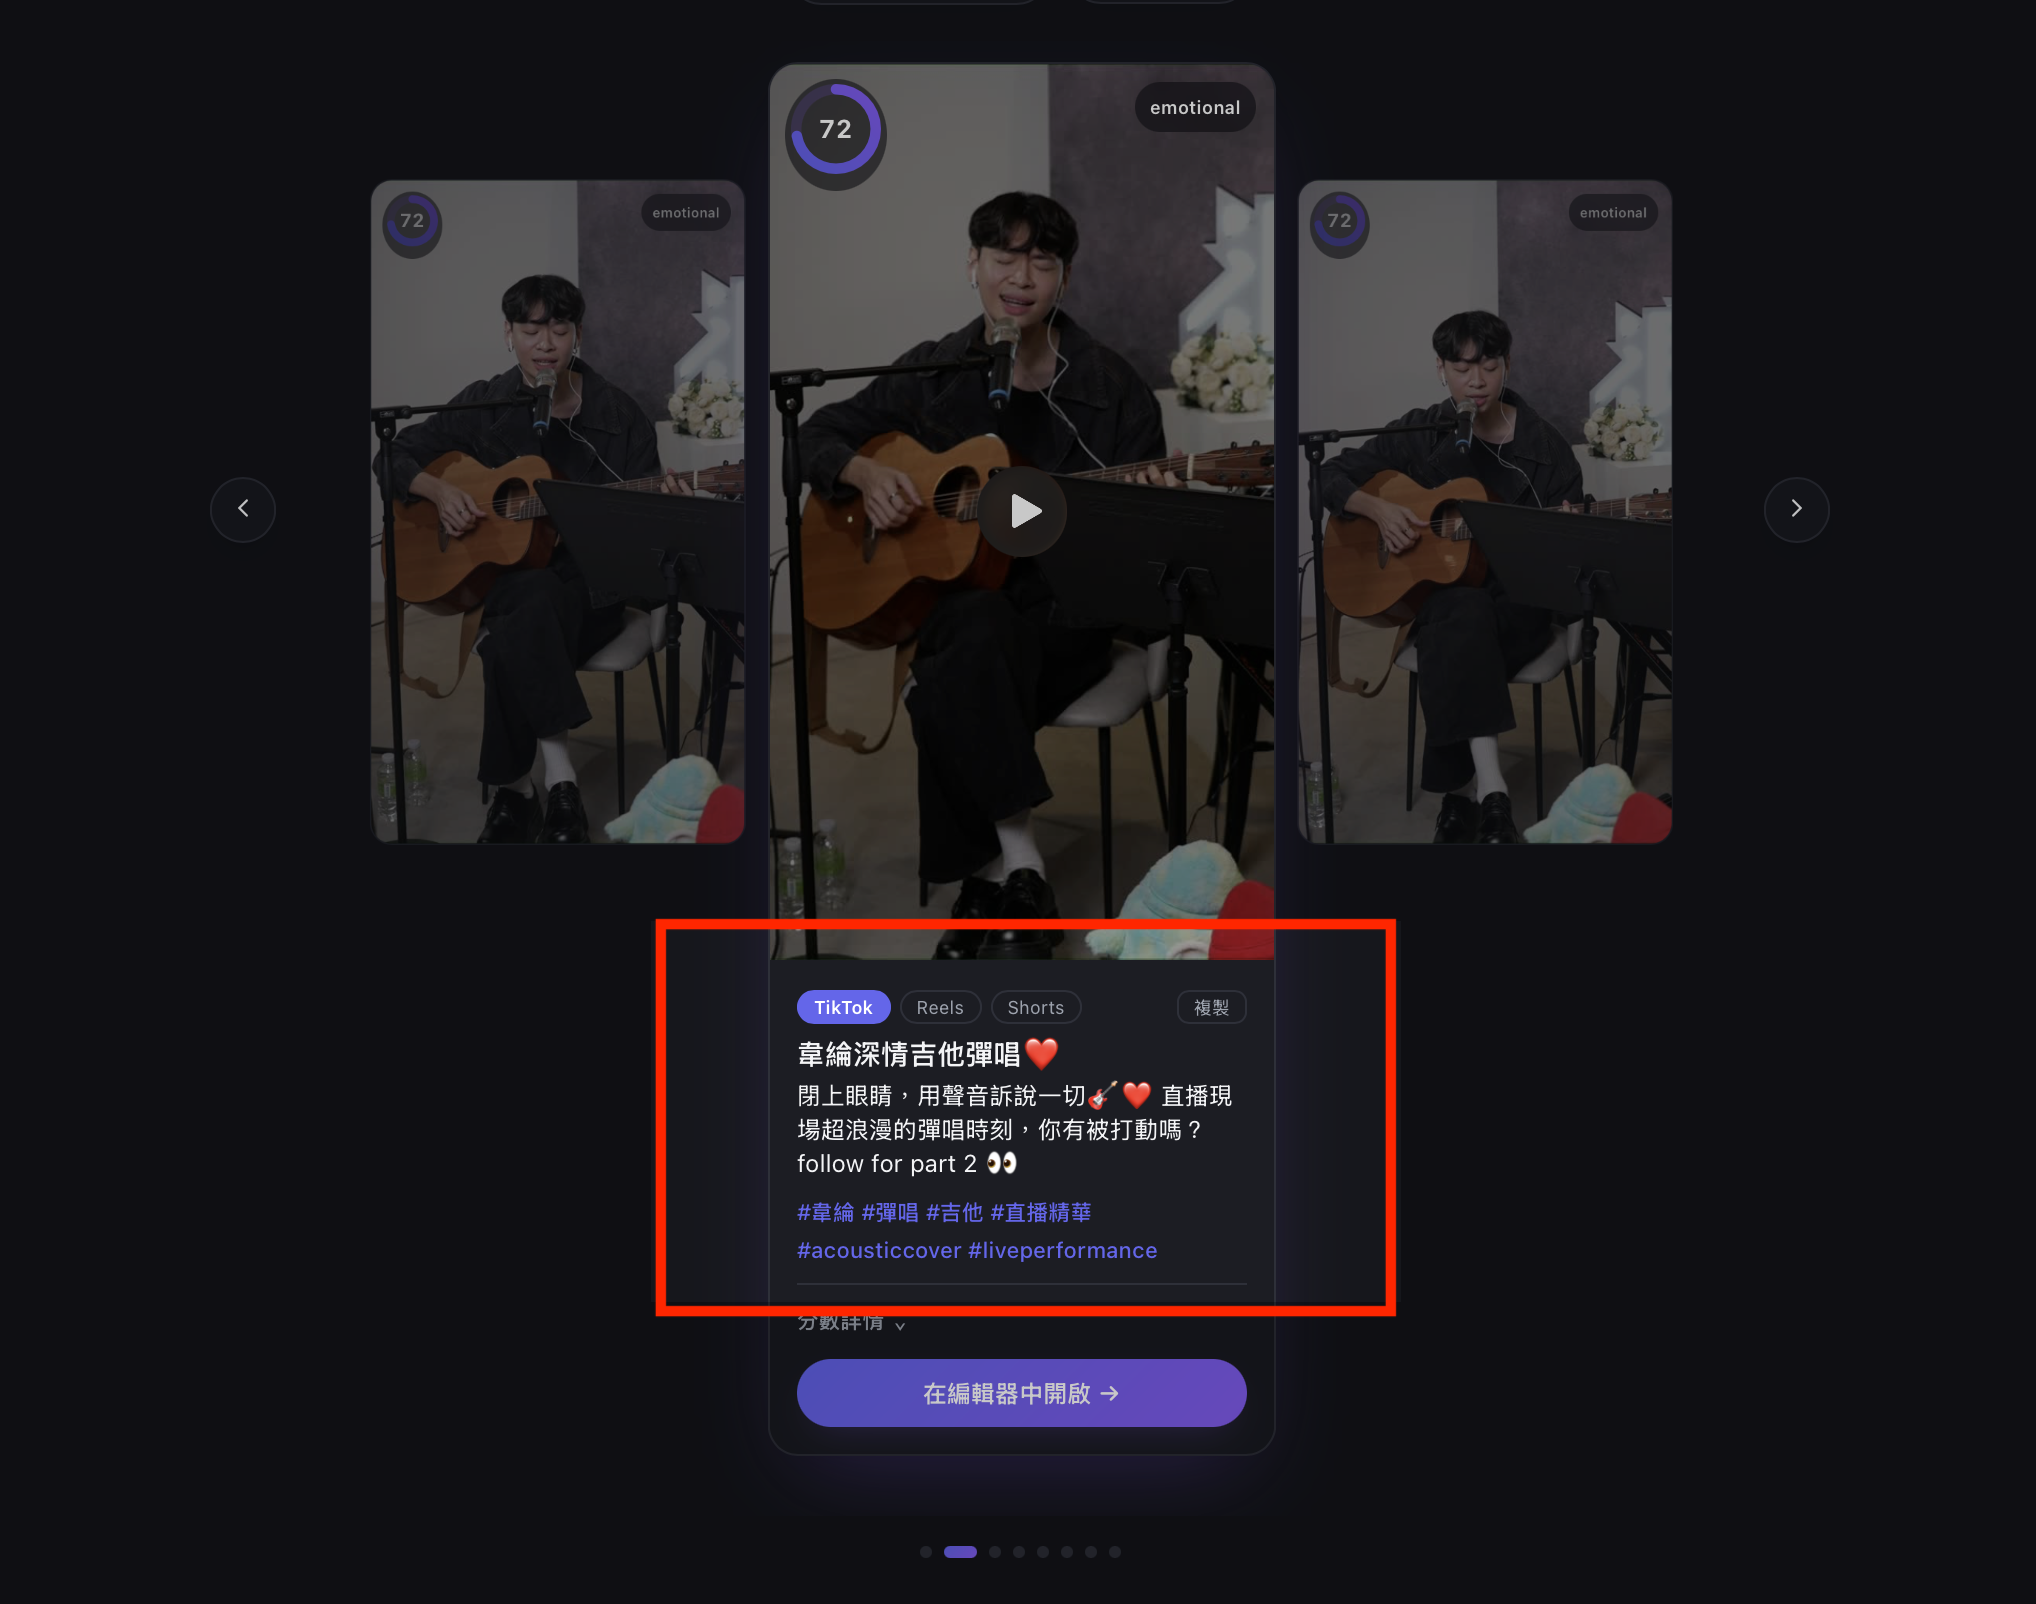
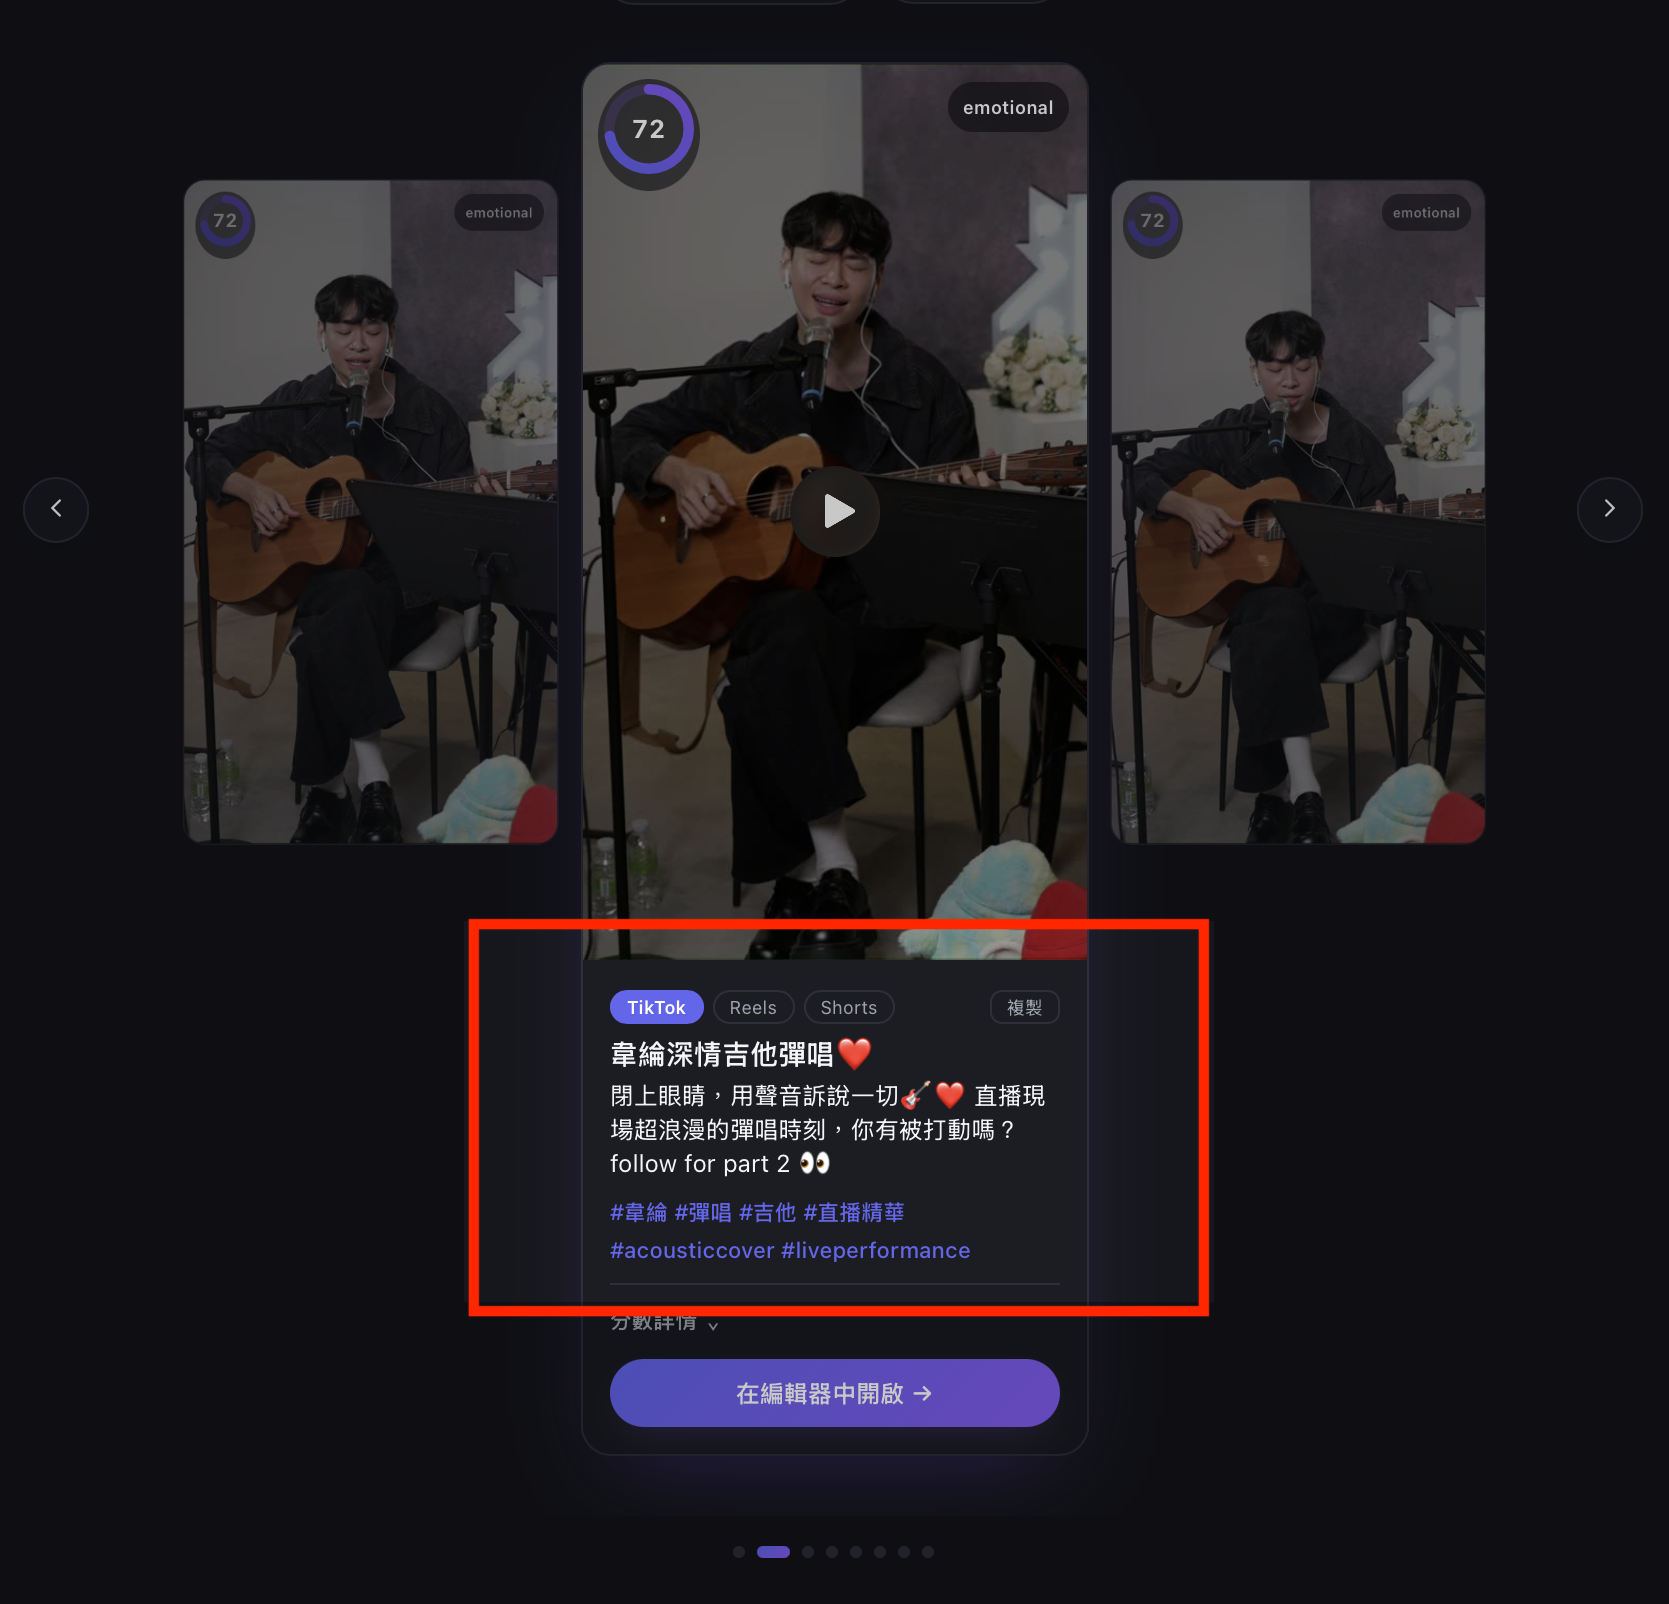
screenshot tweaks

diff --git a/README.md b/README.md
@@ -66,7 +66,7 @@ https://youtu.be/0ntHNhyz9Xo
 
 
 <table align="center">
-    <tr><tr>
+    <tr></tr>
     <tr>
         <td align="center"><b>Upload VODs Screen</b></td>
         <td align="center"><b>Transparent AI Processing Screen</b></td>
@@ -77,13 +77,12 @@ https://youtu.be/0ntHNhyz9Xo
     </tr>
     <tr> 
         <td align="center"><b>Highlights Gallery<b></td>
-        <td align="center"><b>Per-platform Metadata<b><td>
+        <td align="center"><b>Per-platform Metadata<b></td>
+    </tr>
     <tr>
-        <td><img src="docs/media/screenshot-gallery.png" width = 100%" /><td>
-        <td><img src="docs/media/screenshot-metadata.png>" width = 100%" /><td>
-    <tr>
-  <tr>
-    
+        <td><img src="docs/media/screenshot-gallery.png" width = 100%"/></td>
+        <td><img src="docs/media/screenshot-metadata.png" width = 100%"/></td>
+    </tr>
 </table>
 
 ---
